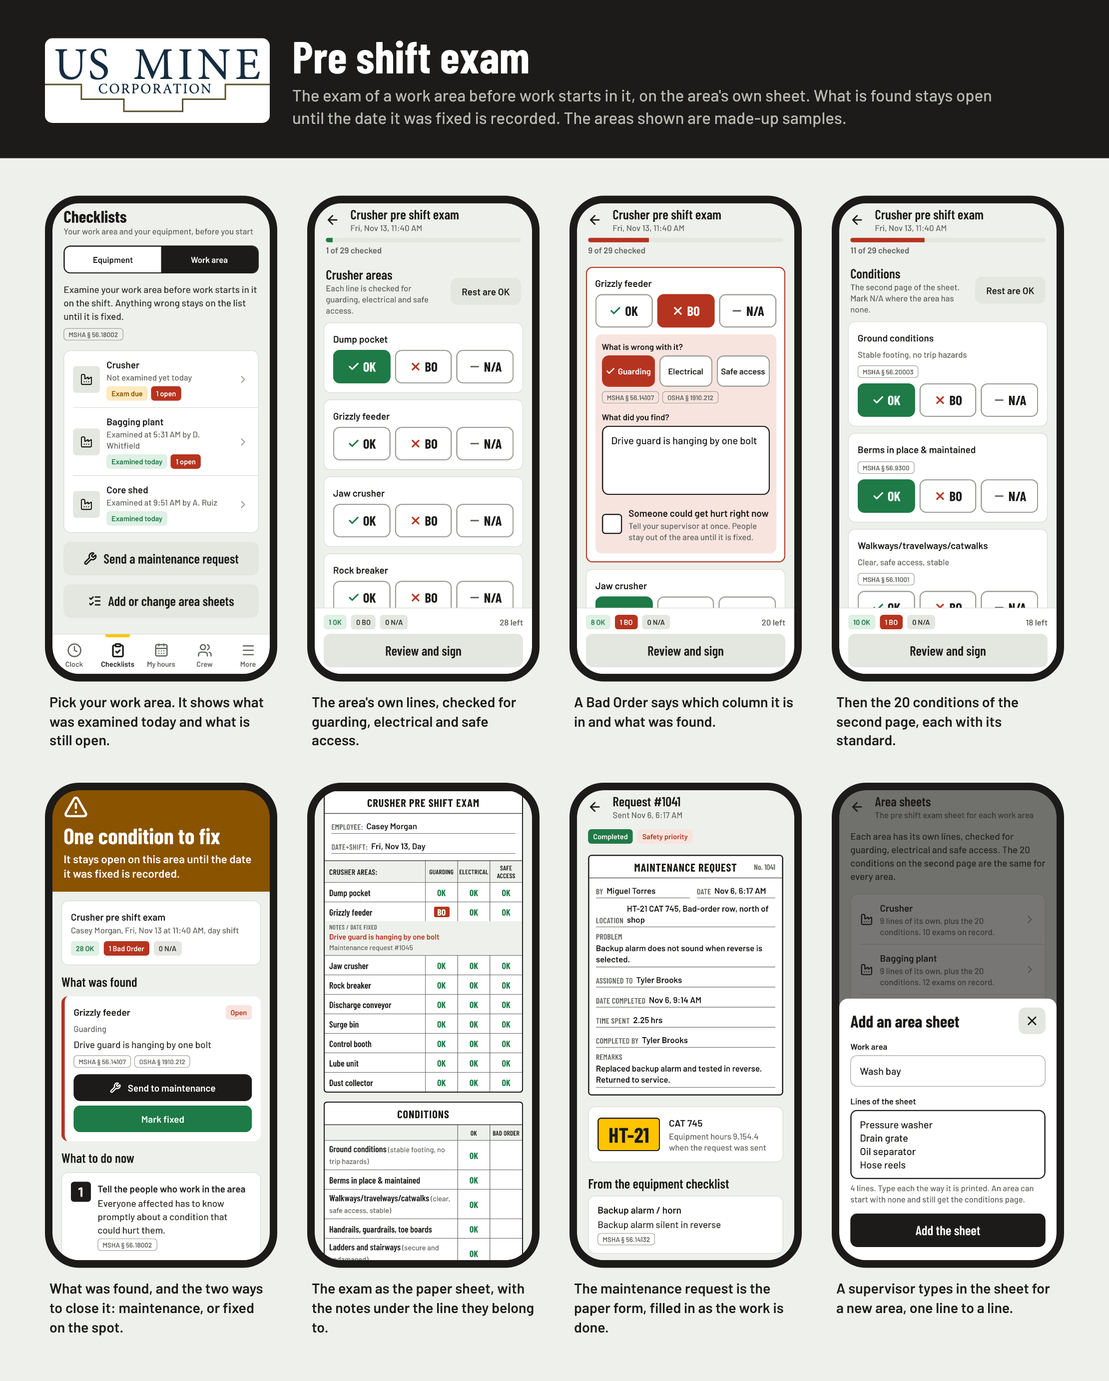
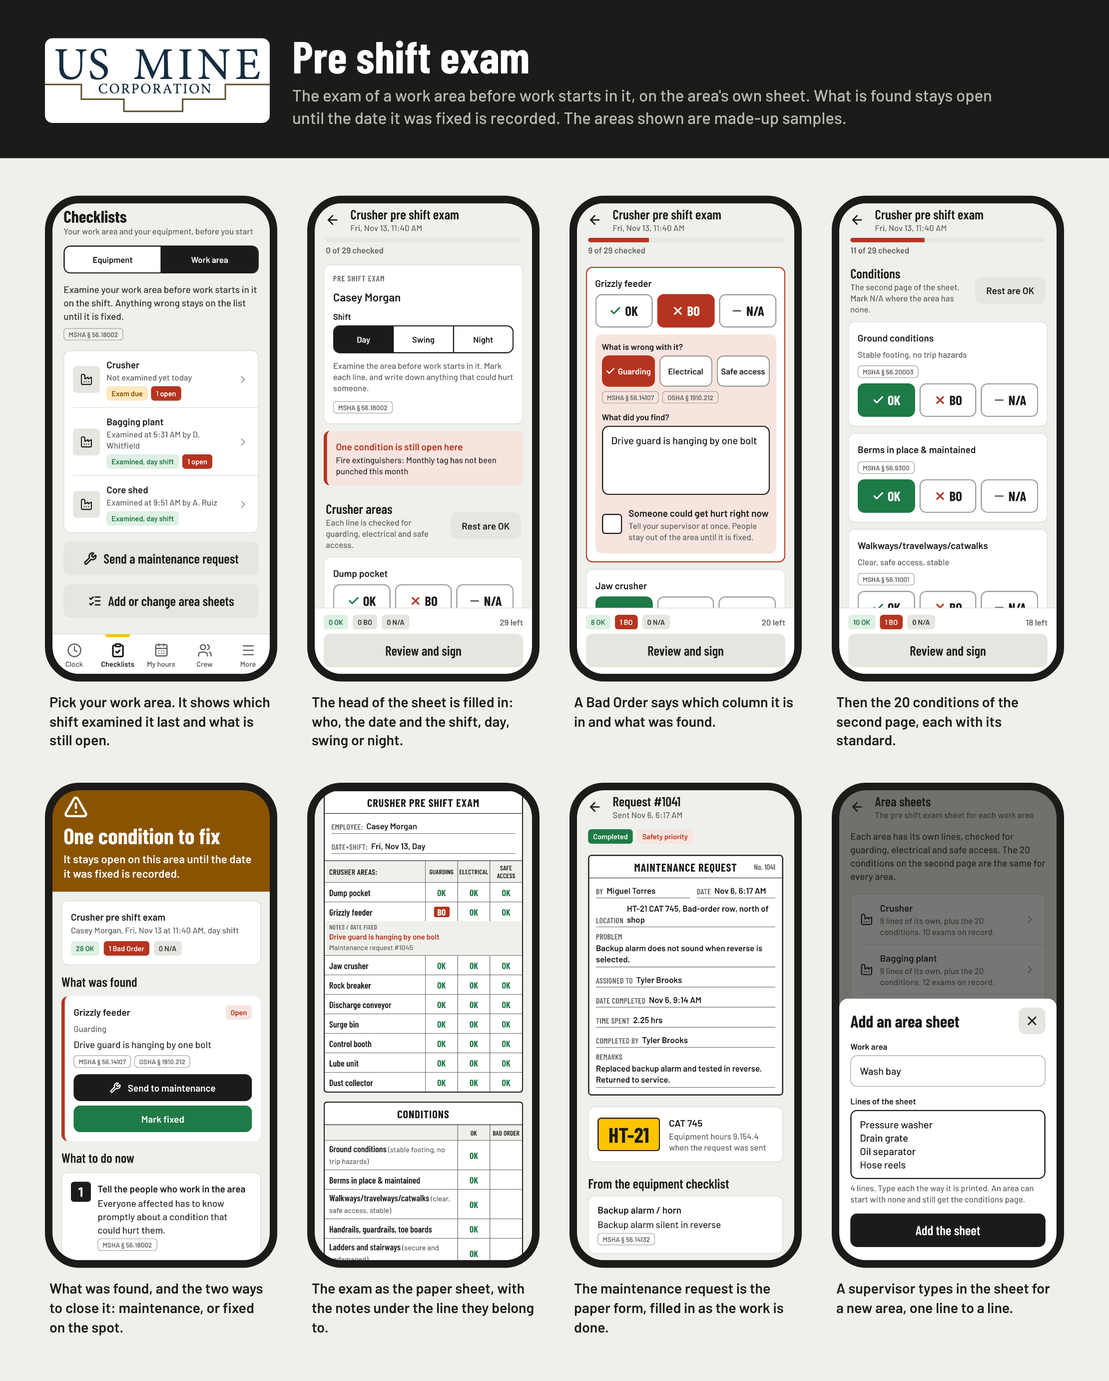
Add the swing shift to the pre shift exam
There is a swing shift at the mine as well as day and night.

Pre shift exam
- The "Date+Shift" blank takes day, swing or night, in that order.
- The form starts on the shift the person clocked in for, however late
  in it they make the exam: someone in at 5:50 AM who examines a second
  area at 1 PM is still on days, and someone in at 9:40 PM is still on
  nights at 1:30 the next morning. Off the clock it goes by the time.
  The person can change it.
- Until the mine gives the hours its shifts run, day crews are taken to
  come in from 3 AM, swing from 11 AM and nights from 5 PM. That only
  picks the starting choice; nothing is marked due or done from it.

Where a shift is shown
- The work-area list says which shift an area was last examined for
  ("Examined, day shift") in place of "Examined today", so the next
  crew can see that theirs is still to do.
- The supervisor's log and My records name the shift on every exam.
- The sheet, the signed exam and the Excel export say "Swing".
- One function, shiftLabel, names a shift everywhere.

Sample data
- A sample exam is on the shift its examiner clocked in for, not the
  hour it was signed.

Controls
- A segmented control draws a line between its choices, so two that are
  both off still read as two. It showed with three shifts in a row.

Docs
- README: what is settled with the crew (the safety items, N/A on the
  exam, the spelling, the swing shift) and what is still to confirm
  (the hours each shift runs).
[…]

diff --git a/src/store/__tests__/seed.test.ts b/src/store/__tests__/seed.test.ts
@@ -180,11 +180,44 @@ describe('sample data', () => {
     expect(new Set(haulRoads('Yard'))).toEqual(new Set(['ok']));
   });
 
-  it('puts an exam made in the small hours on the night shift', () => {
-    // Opened at 6:15 AM, the crew that is already hours into its shift came in around midnight.
-    const data = buildDemoData(new Date(2026, 10, 13, 6, 15).getTime());
-    expect(data.exams.some((exam) => new Date(exam.submittedAt).getHours() < 4)).toBe(true);
-    for (const exam of data.exams) expect(exam.shift).toBe(shiftAt(exam.submittedAt));
+  describe('the shift on a sample exam', () => {
+    /** The sample data as it is when the preview is opened at this time, and the exams made that day. */
+    const openedAt = (hour: number, minute: number) => {
+      const now = new Date(2026, 10, 13, hour, minute).getTime();
+      const data = buildDemoData(now);
+      return { data, today: data.exams.filter((exam) => exam.submittedAt >= startOfDay(now)) };
+    };
+    /** The time-clock shift an exam was made on: the examiner's last clock-in before it. */
+    const clockInOf = (data: ReturnType<typeof buildDemoData>, exam: { employeeId: string; submittedAt: number }) =>
+      Math.max(...data.shifts.filter((s) => s.employeeId === exam.employeeId && s.clockIn.at <= exam.submittedAt).map((s) => s.clockIn.at));
+
+    it.each([[6, 15], [10, 42], [13, 0], [20, 30]])('is the one its examiner clocked in for, opened at %d:%d', (hour, minute) => {
+      const { data } = openedAt(hour, minute);
+      expect(data.exams.length).toBeGreaterThan(20);
+      for (const exam of data.exams) expect(exam.shift).toBe(shiftAt(clockInOf(data, exam)));
+    });
+
+    it('is the day shift for a crew that came in that morning', () => {
+      expect(openedAt(10, 42).today.map((exam) => exam.shift)).toEqual(['day', 'day']);
+    });
+
+    it('is the swing shift for someone who came in after lunch, and nights for someone who came in that evening', () => {
+      // Opened at 8:30 PM: one examiner has been on since 2 PM, the other since 6:25 PM.
+      expect(openedAt(20, 30).today.map((exam) => exam.shift)).toEqual(['swing', 'night']);
+    });
+
+    it('is nights for a crew that came in around midnight', () => {
+      // Opened at 6:15 AM: one examiner has been on since 11:45 PM, the other came in at 4:10 AM for days.
+      expect(openedAt(6, 15).today.map((exam) => exam.shift)).toEqual(['night', 'day']);
+    });
+
+    it('stays the shift they clocked in for when the exam is signed after the next one has started', () => {
+      // Opened at 1 PM: the lab's examiner clocked in just before 11 and signed the exam just after.
+      const { data, today } = openedAt(13, 0);
+      const late = today[today.length - 1];
+      expect([new Date(clockInOf(data, late)).getHours(), new Date(late.submittedAt).getHours()]).toEqual([10, 11]);
+      expect(late.shift).toBe('day');
+    });
   });
 
   it('makes the sample exams on whatever sheets a build names', () => {

diff --git a/src/screens/exam/AreaList.tsx b/src/screens/exam/AreaList.tsx
@@ -5,13 +5,13 @@ import { StyleSheet, View } from 'react-native';
 
 import { StandardRefs } from '../../components/Standards';
 import { Button, Divider, EmptyState, Notice, Panel, Row, Sheet, Tag, Txt } from '../../components/ui';
-import { openFindings, SHIFTS } from '../../domain/areaExam';
+import { openFindings, shiftLabel } from '../../domain/areaExam';
 import type { AreaExam } from '../../domain/types';
 import { employeeName, useMe, useStore } from '../../store/useStore';
 import { color, radius, space } from '../../theme/theme';
 import { fmtRelativeDay, fmtTime, shortName, startOfDay } from '../../util/format';
 
-/** The work areas, each with today's pre shift exam and the conditions still open in it. */
+/** The work areas, each with today's latest pre shift exam, the shift it was for, and the conditions still open in it. */
 export function AreaList({ now }: { now: number }) {
   const navigation = useNavigation();
   const me = useMe();
@@ -41,6 +41,9 @@ export function AreaList({ now }: { now: number }) {
     const who = employees.find((e) => e.id === exam.employeeId);
     return who ? shortName(who) : 'someone';
   };
+  // An exam is for one shift, and the next crew makes its own. So the row names the shift
+  // it was made for, and leaves it to the person to see that theirs is still to do.
+  const onShift = (exam: AreaExam) => `${shiftLabel(exam.shift).toLowerCase()} shift`;
 
   return (
     <>
@@ -74,7 +77,7 @@ export function AreaList({ now }: { now: number }) {
                   below={
                     <>
                       {danger ? <Tag label="Danger, keep out" tone="bo" solid icon={Siren} /> : null}
-                      <Tag label={exam ? 'Examined today' : 'Exam due'} tone={exam ? 'ok' : 'warn'} />
+                      <Tag label={exam ? `Examined, ${onShift(exam)}` : 'Exam due'} tone={exam ? 'ok' : 'warn'} />
                       {waiting > 0 ? <Tag label={`${waiting} open`} tone="bo" solid={!danger} /> : null}
                     </>
                   }
@@ -103,7 +106,7 @@ export function AreaList({ now }: { now: number }) {
           <>
             <Txt v="body" c={color.inkSoft}>
               {sheetExam
-                ? `Examined today at ${fmtTime(sheetExam.submittedAt)} by ${employeeName(employees, sheetExam.employeeId)}, ${(SHIFTS.find((x) => x.id === sheetExam.shift)?.label ?? '').toLowerCase()} shift.`
+                ? `Examined today at ${fmtTime(sheetExam.submittedAt)} by ${employeeName(employees, sheetExam.employeeId)}, ${onShift(sheetExam)}.`
                 : 'Nobody has examined this area yet today.'}
               {` The sheet has ${sheet.rows.length} ${sheet.rows.length === 1 ? 'line' : 'lines'} of its own and the 20 conditions.`}
             </Txt>

diff --git a/src/screens/exam/AreaExamScreen.tsx b/src/screens/exam/AreaExamScreen.tsx
@@ -6,11 +6,11 @@ import { useSafeAreaInsets } from 'react-native-safe-area-context';
 import { useLeaveGuard } from '../../components/LeaveGuard';
 import { StandardRefs } from '../../components/Standards';
 import { Button, CheckRow, Field, IconButton, MultiChoice, Notice, ProgressBar, Segmented, Sheet, Tag, TopBar, Txt, TriChoice } from '../../components/ui';
-import { AREA_CONDITIONS, EXAM_COLUMNS, openFindings, shiftAt, SHIFTS, type ExamDraft, type Finding } from '../../domain/areaExam';
+import { AREA_CONDITIONS, EXAM_COLUMNS, openFindings, shiftLabel, SHIFTS, startingShift, type ExamDraft, type Finding } from '../../domain/areaExam';
 import type { Answer, ExamColumn, ShiftName } from '../../domain/types';
 import type { ScreenProps } from '../../navigation/types';
 import { haptic } from '../../services/haptics';
-import { useMe, useStore } from '../../store/useStore';
+import { openShiftOf, useMe, useStore } from '../../store/useStore';
 import { color, radius, space } from '../../theme/theme';
 import { fmtDate, fmtTime, fullName } from '../../util/format';
 
@@ -47,7 +47,10 @@ export function AreaExamScreen({ navigation, route }: ScreenProps<'AreaExam'>) {
   const positions = useRef<Record<string, number>>({});
   const nextKey = useRef(1);
 
-  const [shift, setShift] = useState<ShiftName>(shiftAt(startedAt));
+  // The form starts on the shift the person clocked in for. They can change it.
+  const [shift, setShift] = useState<ShiftName>(() =>
+    startingShift(me ? openShiftOf(useStore.getState().shifts, me.id, startedAt)?.clockIn.at : undefined, startedAt),
+  );
   const [rows, setRows] = useState<Record<string, LineDraft>>({});
   const [others, setOthers] = useState<OtherLine[]>([]);
   const [conditions, setConditions] = useState<Record<string, LineDraft>>({});
@@ -357,7 +360,7 @@ export function AreaExamScreen({ navigation, route }: ScreenProps<'AreaExam'>) {
       </View>
 
       <Sheet testID="exam-sign-sheet" visible={signing} onClose={() => setSigning(false)} title="Sign the exam">
-        <Txt v="strong">{sheet.title}, {SHIFTS.find((s) => s.id === shift)?.label.toLowerCase()} shift</Txt>
+        <Txt v="strong">{sheet.title}, {shiftLabel(shift).toLowerCase()} shift</Txt>
         <View style={styles.tally}>
           <Tag label={`${counts.ok} OK`} tone="ok" />
           <Tag label={`${counts.bo} Bad Order`} tone={counts.bo ? 'bo' : 'neutral'} solid={counts.bo > 0} />

diff --git a/src/domain/__tests__/areaExam.test.ts b/src/domain/__tests__/areaExam.test.ts
@@ -12,13 +12,16 @@ import {
   rowAnswer,
   SAMPLE_AREA_SHEETS,
   shiftAt,
+  shiftLabel,
+  SHIFTS,
+  startingShift,
   withFix,
   withMrf,
   withSheets,
   type ExamDraft,
 } from '../areaExam';
 import { STANDARDS } from '../standards';
-import type { AreaExam, AreaSheet } from '../types';
+import type { AreaExam, AreaSheet, ShiftName } from '../types';
 
 const at = (h: number, m = 0, day = 13) => new Date(2026, 10, day, h, m).getTime();
 
@@ -66,8 +69,31 @@ describe('the sheet itself', () => {
     expect(STANDARDS['56.18002'].agency).toBe('MSHA');
   });
 
-  it('takes the shift from the time of day', () => {
-    expect([shiftAt(at(6, 15)), shiftAt(at(15, 59)), shiftAt(at(18, 0)), shiftAt(at(2, 30))]).toEqual(['day', 'day', 'night', 'night']);
+  it('offers the three shifts in the order they run: day, swing, night', () => {
+    expect(SHIFTS.map((s) => [s.id, s.label])).toEqual([['day', 'Day'], ['swing', 'Swing'], ['night', 'Night']]);
+  });
+
+  it('names a shift the way it goes in the "Date+Shift" blank', () => {
+    expect((['day', 'swing', 'night'] as const).map(shiftLabel)).toEqual(['Day', 'Swing', 'Night']);
+    // A signed record is not rewritten: a shift this version does not know is shown as it was saved.
+    expect(shiftLabel('graveyard' as ShiftName)).toBe('graveyard');
+  });
+
+  it('puts someone on the shift whose crew clocks in at that time of day', () => {
+    const on = (times: [number, number][]) => times.map(([h, m]) => shiftAt(at(h, m)));
+    // Day crews come in from 3 AM, swing from 11 AM, nights from 5 PM until 3 AM.
+    expect(on([[3, 0], [5, 45], [10, 59]])).toEqual(['day', 'day', 'day']);
+    expect(on([[11, 0], [13, 45], [16, 59]])).toEqual(['swing', 'swing', 'swing']);
+    expect(on([[17, 0], [21, 45], [0, 10], [2, 59]])).toEqual(['night', 'night', 'night', 'night']);
+  });
+
+  it('starts an exam on the shift the person clocked in for, however late in it the exam is made', () => {
+    // In at 5:50 AM and examining a second area at 1 PM: still the day shift.
+    expect(startingShift(at(5, 50), at(13, 0))).toBe('day');
+    // In at 9:40 PM and examining at 1:30 the next morning: still nights.
+    expect(startingShift(at(21, 40, 12), at(1, 30, 13))).toBe('night');
+    // Off the clock there is only the time to go by.
+    expect(startingShift(undefined, at(13, 0))).toBe('swing');
   });
 });
 

diff --git a/src/domain/areaExam.ts b/src/domain/areaExam.ts
@@ -68,15 +68,42 @@ export const AREA_CONDITIONS: AreaCondition[] = [
   { id: 'chemicals', label: 'Chemical storage / labeling / SDS access', refs: ['47.41'] },
 ];
 
+/** The shifts, in the order they run. The paper leaves "Date+Shift" blank; these are what goes in it. */
 export const SHIFTS: { id: ShiftName; label: string }[] = [
   { id: 'day', label: 'Day' },
+  { id: 'swing', label: 'Swing' },
   { id: 'night', label: 'Night' },
 ];
 
-/** The shift a time of day falls in, as a starting choice. The person can change it. */
-export function shiftAt(ms: number): ShiftName {
-  const hour = new Date(ms).getHours();
-  return hour >= 4 && hour < 16 ? 'day' : 'night';
+/** A shift as it is written in the blank. One this version does not know is shown as it was saved. */
+export function shiftLabel(shift: ShiftName): string {
+  return SHIFTS.find((s) => s.id === shift)?.label ?? shift;
+}
+
+/** The hour of the day each shift's crew starts to come in. Nights run on past midnight, until the day crew's hour. */
+const DAY_CREW_FROM = 3;
+const SWING_CREW_FROM = 11;
+const NIGHT_CREW_FROM = 17;
+
+/**
+ * The shift someone who clocked in at this time is on.
+ *
+ * The mine has not given its shift times, so the hours are wide enough to take an eight hour
+ * pattern or a twelve hour one. It is a guess at a starting choice and nothing more: do not
+ * decide from it that an exam is due or done.
+ */
+export function shiftAt(clockedInAt: number): ShiftName {
+  const hour = new Date(clockedInAt).getHours();
+  if (hour >= NIGHT_CREW_FROM || hour < DAY_CREW_FROM) return 'night';
+  return hour >= SWING_CREW_FROM ? 'swing' : 'day';
+}
+
+/**
+ * The shift an exam form starts on: the one the person clocked in for, however late in it they
+ * make the exam. Off the clock there is only the time to go by. The person can change it.
+ */
+export function startingShift(clockedInAt: number | undefined, now: number): ShiftName {
+  return shiftAt(clockedInAt ?? now);
 }
 
 // ---- Area sheets ---------------------------------------------------------------------------

diff --git a/src/screens/supervisor/SafetyLogScreen.tsx b/src/screens/supervisor/SafetyLogScreen.tsx
@@ -3,7 +3,7 @@ import React, { useMemo, useState } from 'react';
 import { StyleSheet, View } from 'react-native';
 
 import { Button, Chips, Divider, EmptyState, Page, Panel, Row, Segmented, Tag, Txt, UnitPlate } from '../../components/ui';
-import { examFindings, examResult } from '../../domain/areaExam';
+import { examFindings, examResult, shiftLabel } from '../../domain/areaExam';
 import { cardsBetween } from '../../domain/checklistCard';
 import type { ScreenProps } from '../../navigation/types';
 import { exportReport } from '../../services/exportReport';
@@ -117,13 +117,17 @@ export function SafetyLogScreen({ navigation }: ScreenProps<'SafetyLog'>) {
                   title={exam.area}
                   sub={`${employeeName(employees, exam.employeeId)}, ${fmtDateTime(exam.submittedAt)}`}
                   below={
-                    result === 'clear' ? (
-                      <Tag label="Clear" tone="ok" />
-                    ) : open === 0 ? (
-                      <Tag label="Found and fixed" tone="ok" />
-                    ) : (
-                      <Tag label={result === 'danger' ? `${open} open, danger` : `${open} open`} tone="bo" solid />
-                    )
+                    <>
+                      {/* The paper's "Date+Shift": with three shifts in a day, the date alone does not say which exam this is. */}
+                      <Tag label={`${shiftLabel(exam.shift)} shift`} tone="neutral" />
+                      {result === 'clear' ? (
+                        <Tag label="Clear" tone="ok" />
+                      ) : open === 0 ? (
+                        <Tag label="Found and fixed" tone="ok" />
+                      ) : (
+                        <Tag label={result === 'danger' ? `${open} open, danger` : `${open} open`} tone="bo" solid />
+                      )}
+                    </>
                   }
                   chevron
                   onPress={() => navigation.navigate('AreaExamDetail', { examId: exam.id })}

diff --git a/src/services/reports.ts b/src/services/reports.ts
@@ -1,5 +1,5 @@
 import { COMPANY } from '../config';
-import { AREA_CONDITIONS, examCounts, examFindings, examResult, rowAnswer, SHIFTS } from '../domain/areaExam';
+import { AREA_CONDITIONS, examCounts, examFindings, examResult, rowAnswer, shiftLabel } from '../domain/areaExam';
 import { cardsBetween } from '../domain/checklistCard';
 import { computePayroll, sumPayroll } from '../domain/payroll';
 import { standard } from '../domain/standards';
@@ -342,12 +342,11 @@ export function safetyReport(data: ReportData, from: number, to: number, now: nu
 
   // ---- Pre shift exams: the record 30 CFR 56.18002 asks for -----------------------------------
   const exams = data.exams.filter((x) => within(x.submittedAt)).sort((a, b) => a.submittedAt - b.submittedAt);
-  const shiftLabel = (exam: AreaExam) => SHIFTS.find((s) => s.id === exam.shift)?.label ?? exam.shift;
   const conditionLabel = new Map(AREA_CONDITIONS.map((c) => [c.id, c.label]));
   const cites = (refs: string[], agency: 'MSHA' | 'OSHA') =>
     refs.map(standard).filter((std) => std?.agency === agency).map((std) => std?.cite).join('; ');
   const fixedOn = (at?: number): CellInput => (at == null ? null : { v: new Date(at), s: 'datetime' });
-  const examHead = (exam: AreaExam): CellInput[] => [date(exam.submittedAt), shiftLabel(exam), exam.area, nameOf(employeeOf.get(exam.employeeId))];
+  const examHead = (exam: AreaExam): CellInput[] => [date(exam.submittedAt), shiftLabel(exam.shift), exam.area, nameOf(employeeOf.get(exam.employeeId))];
 
   const examSheet: Sheet = {
     name: 'Pre Shift Exams',

diff --git a/src/store/seed.ts b/src/store/seed.ts
@@ -459,9 +459,10 @@ export function buildDemoData(now: number, sheets: AreaSheet[] = SAMPLE_AREA_SHE
   // Each sheet has its examiner, who goes round the area a few minutes after clocking in.
   // The first sheet is left unexamined today, so whoever opens the preview has one to do.
   const today0 = startOfDay(now);
-  const clear = (sheet: AreaSheet, startedAt: number, signedAt: number): ExamDraft => ({
+  const clear = (sheet: AreaSheet, startedAt: number, clockedInAt: number): ExamDraft => ({
     sheetId: sheet.id,
-    shift: shiftAt(signedAt),
+    // The shift the examiner clocked in for, as the form would have started on.
+    shift: shiftAt(clockedInAt),
     startedAt,
     rows: Object.fromEntries(sheet.rows.map((row) => [row.id, { answer: 'ok' as const }])),
     others: [],
@@ -478,7 +479,7 @@ export function buildDemoData(now: number, sheets: AreaSheet[] = SAMPLE_AREA_SHE
       if (shift.employeeId !== examiner || shift.clockIn.at < firstExamDay) continue;
       if (leftForToday && shift.clockIn.at >= today0) continue;
       const submittedAt = shift.clockIn.at + pick(14, 26) * MIN;
-      const built = buildExam(sheet, clear(sheet, submittedAt - pick(6, 11) * MIN, submittedAt), {
+      const built = buildExam(sheet, clear(sheet, submittedAt - pick(6, 11) * MIN, shift.clockIn.at), {
         id: nextId('exam'), employeeId: examiner, submittedAt,
       });
       if (built.ok) exams.push(built.exam);

diff --git a/src/screens/exam/AreaExamDetailScreen.tsx b/src/screens/exam/AreaExamDetailScreen.tsx
@@ -7,7 +7,7 @@ import { StatusBar } from 'expo-status-bar';
 import { ExamSheet } from '../../components/ExamSheet';
 import { StandardRefs, StepCard } from '../../components/Standards';
 import { Button, Field, IconButton, Sheet, Tag, Txt } from '../../components/ui';
-import { examCounts, examFindings, openFindings, SHIFTS, type Finding } from '../../domain/areaExam';
+import { examCounts, examFindings, openFindings, shiftLabel, type Finding } from '../../domain/areaExam';
 import { AREA_CONDITION_STEPS, AREA_DANGER_STEPS } from '../../domain/standards';
 import type { ScreenProps } from '../../navigation/types';
 import { haptic } from '../../services/haptics';
@@ -39,7 +39,7 @@ export function AreaExamDetailScreen({ navigation, route }: ScreenProps<'AreaExa
   const danger = open.some((f) => f.danger);
   const counts = examCounts(exam);
   const examiner = employeeName(employees, exam.employeeId);
-  const shift = SHIFTS.find((s) => s.id === exam.shift)?.label.toLowerCase() ?? exam.shift;
+  const shift = shiftLabel(exam.shift).toLowerCase();
   const canFix = me.role === 'supervisor' || exam.employeeId === me.id;
   const mrfOf = (id?: string) => mrfs.find((m) => m.id === id);
   // The same line found again on another exam of this area is a record of its own: each keeps

diff --git a/src/components/ui.tsx b/src/components/ui.tsx
@@ -346,7 +346,7 @@ export function Segmented<T extends string>({ options, value, onChange, testID }
 }) {
   return (
     <View style={styles.segmented} accessibilityRole="tablist">
-      {options.map((option) => {
+      {options.map((option, i) => {
         const on = option.value === value;
         return (
           <Pressable
@@ -358,7 +358,8 @@ export function Segmented<T extends string>({ options, value, onChange, testID }
               haptic.tap();
               onChange(option.value);
             }}
-            style={[styles.segment, on && styles.segmentOn]}
+            // A line between choices, so two that are both off still read as two.
+            style={[styles.segment, i > 0 && styles.segmentNext, on && styles.segmentOn]}
           >
             <Text style={[VARIANT.smallStrong, { color: on ? color.white : color.ink }]} numberOfLines={1}>
               {option.label}
@@ -742,6 +743,7 @@ const styles = StyleSheet.create({
     overflow: 'hidden',
   },
   segment: { flex: 1, minHeight: 46, alignItems: 'center', justifyContent: 'center', paddingHorizontal: 6 },
+  segmentNext: { borderLeftWidth: 2, borderLeftColor: color.ink },
   segmentOn: { backgroundColor: color.ink },
   chips: { gap: space.sm, paddingRight: space.xl },
   chip: {

diff --git a/src/screens/more/MyRecordsScreen.tsx b/src/screens/more/MyRecordsScreen.tsx
@@ -3,7 +3,7 @@ import React, { useMemo, useState } from 'react';
 import { View } from 'react-native';
 
 import { Divider, EmptyState, Page, Panel, Row, Segmented, Tag, Txt, UnitPlate } from '../../components/ui';
-import { examFindings } from '../../domain/areaExam';
+import { examFindings, shiftLabel } from '../../domain/areaExam';
 import { cardsBetween } from '../../domain/checklistCard';
 import type { ScreenProps } from '../../navigation/types';
 import { useMe, useStore } from '../../store/useStore';
@@ -99,7 +99,7 @@ export function MyRecordsScreen({ navigation, route }: ScreenProps<'MyRecords'>)
                     testID={`my-exam-${n}`}
                     left={<Factory color={color.ink} size={24} />}
                     title={exam.area}
-                    sub={fmtDateTime(exam.submittedAt)}
+                    sub={`${fmtDateTime(exam.submittedAt)}, ${shiftLabel(exam.shift).toLowerCase()} shift`}
                     right={<Tag label={found.length === 0 ? 'Clear' : open ? `${open} open` : 'Fixed'} tone={open ? 'bo' : 'ok'} />}
                     onPress={() => navigation.navigate('AreaExamDetail', { examId: exam.id })}
                   />

diff --git a/src/services/__tests__/reports.test.ts b/src/services/__tests__/reports.test.ts
@@ -110,6 +110,15 @@ describe('safety report', () => {
     expect(headers(report.bytes, 6)).toEqual(['Date', 'Shift', 'Area', 'Examined by', 'Page', 'Line', 'Guarding', 'Electrical', 'Safe access', 'Result', 'Notes', 'Date fixed']);
   });
 
+  it('names the swing shift on an exam made for it, and on each of its lines', () => {
+    const last = data.exams[data.exams.length - 1];
+    const swing = { ...data, exams: data.exams.map((exam) => (exam === last ? { ...exam, shift: 'swing' as const } : exam)) };
+    const bytes = safetyReport(swing, addDays(to, -30), to, now).bytes;
+    const exams = table(bytes, 4);
+    expect(exams[exams.length - 1].Shift).toBe('Swing');
+    expect(table(bytes, 6).filter((line) => line.Shift === 'Swing')).toHaveLength(last.rows.length + last.conditions.length);
+  });
+
   it('lists each condition found, with the date it was fixed once there is one', () => {
     const found = table(report.bytes, 5);
     expect(found.map((r) => [r.Area, r.Line, r['Found in'], r['MRF #'], r.Status])).toEqual([
